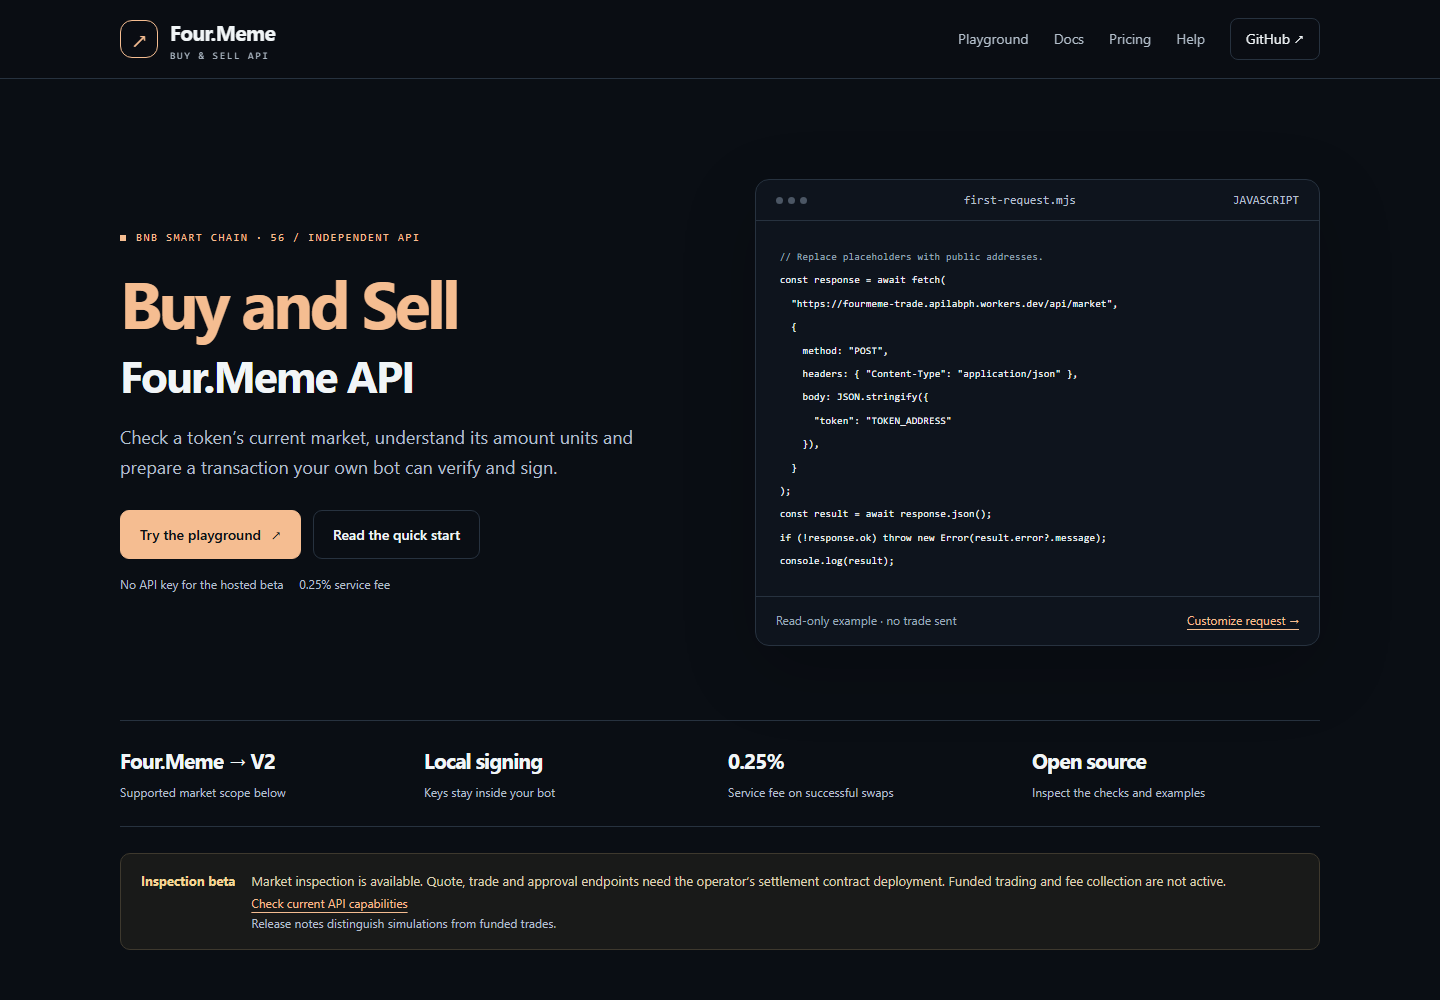
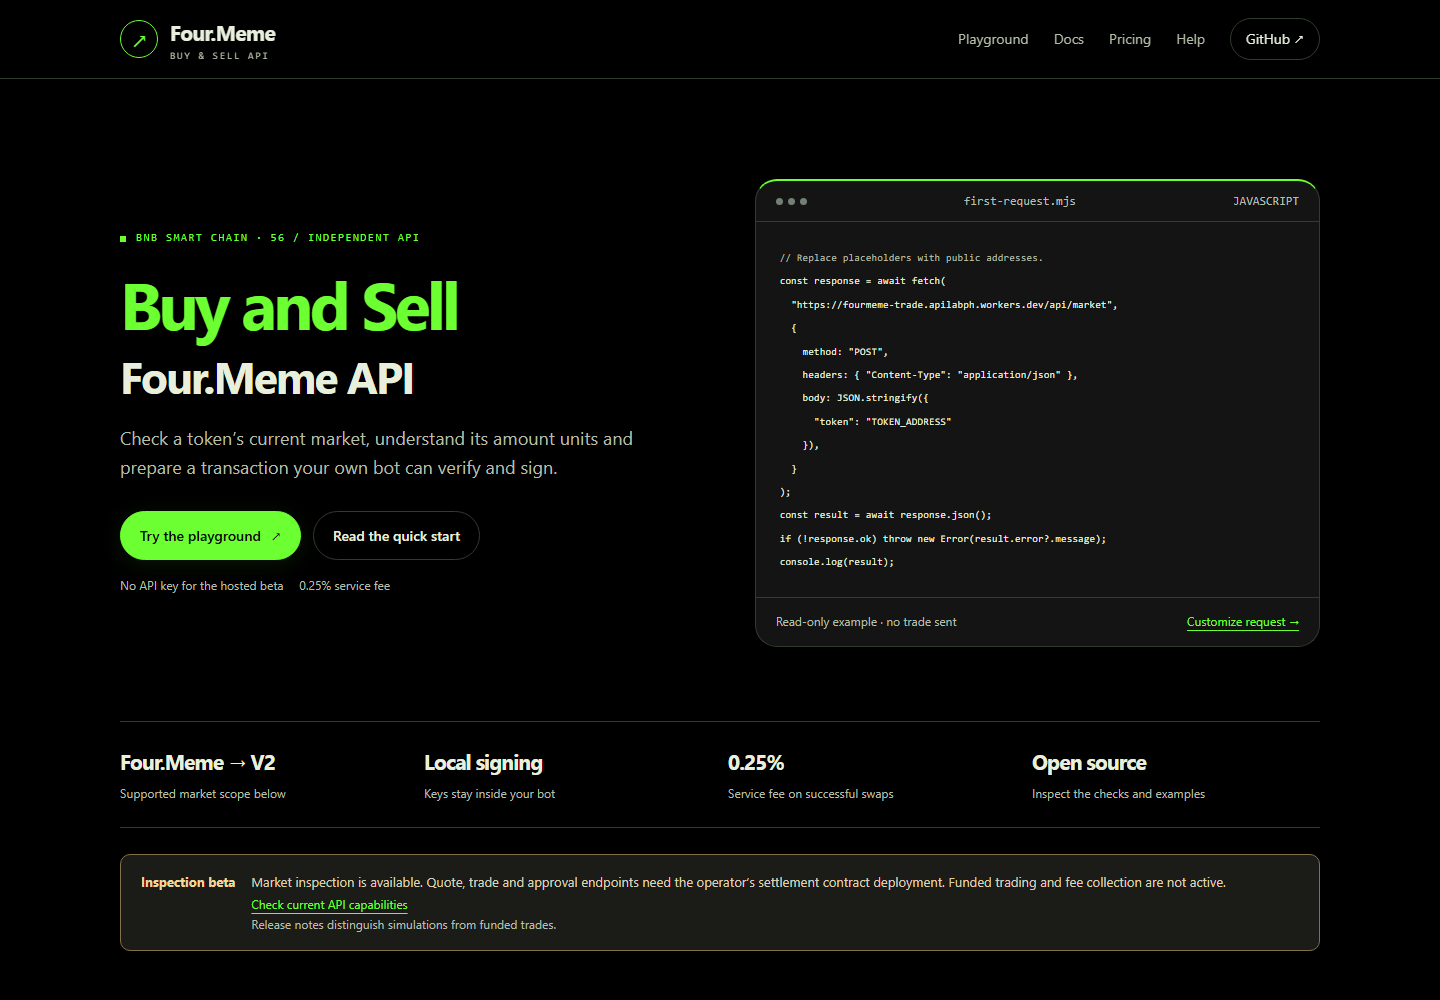
Match developer website theme to launchpad identity

diff --git a/website/style.css b/website/style.css
@@ -1,13 +1,28 @@
-:root {
+:root {
   color-scheme: dark;
-  --bg: #0a0e14;
-  --panel: #101720;
-  --line: #27323f;
-  --text: #f1f5f7;
-  --muted: #b3bfcb;
-  --accent: #aab8ff;
-  --accent-ink: #0a1014;
-  --radius: 18px;
+  --bg: #000000;
+  --panel: #141414;
+  --surface: #0d100d;
+  --line: #303c2e;
+  --text: #e8efdd;
+  --muted: #b4bea9;
+  --accent: #6cff32;
+  --secondary: #b2ff92;
+  --action: #6cff32;
+  --accent-ink: #071005;
+  --topbar: #000000f5;
+  --control-border: #72816b;
+  --comment: #b4bea9;
+  --tab-bg: #ffffff0d;
+  --window-dot: #738075;
+  --notice-bg: #1b1b18;
+  --notice-text: #dbcfb5;
+  --notice-title: #f3d597;
+  --notice-border: #827049;
+  --error: #ffb8ac;
+  --success: #b5e9d2;
+  --radius: 22px;
+  --button-radius: 999px;
   font-family:
     Inter,
     ui-sans-serif,
@@ -69,8 +84,8 @@ button:disabled {
   position: absolute;
   left: 16px;
   top: -80px;
-  background: var(--accent);
-  color: #000;
+  background: var(--action);
+  color: var(--accent-ink);
   padding: 10px;
   z-index: 10;
 }
@@ -79,7 +94,7 @@ button:disabled {
 }
 .topbar {
   border-bottom: 1px solid var(--line);
-  background: #0a0e14f5;
+  background: var(--topbar);
   position: sticky;
   top: 0;
   z-index: 5;
@@ -201,7 +216,7 @@ button:disabled {
   gap: 10px;
   text-decoration: none;
   border: 1px solid var(--line);
-  border-radius: 9px;
+  border-radius: var(--button-radius);
   padding: 12px 19px;
   color: var(--text);
   background: transparent;
@@ -210,9 +225,9 @@ button:disabled {
   min-height: 46px;
 }
 .button.primary {
-  background: var(--accent);
+  background: var(--action);
   color: var(--accent-ink);
-  border-color: var(--accent);
+  border-color: var(--action);
 }
 .button:hover {
   filter: brightness(1.12);
@@ -229,9 +244,9 @@ button:disabled {
 .editor {
   border: 1px solid var(--line);
   border-radius: 14px;
-  background: #0e141d;
+  background: var(--panel);
   overflow: hidden;
-  box-shadow: 0 24px 75px #0003;
+  box-shadow: 0 18px 55px #0003;
   min-width: 0;
 }
 .editor-top {
@@ -255,7 +270,7 @@ button:disabled {
   width: 7px;
   height: 7px;
   border-radius: 50%;
-  background: #4b5664;
+  background: var(--window-dot);
 }
 .editor pre {
   padding: 24px;
@@ -264,7 +279,7 @@ button:disabled {
   line-height: 1.95;
 }
 .comment {
-  color: #9aa9ba;
+  color: var(--comment);
 }
 .syntax {
   color: var(--accent);
@@ -317,15 +332,15 @@ code {
   gap: 16px;
   align-items: flex-start;
   font-size: 13px;
-  color: #dbcfb5;
-  background: #191a19;
-  border: 1px solid #3e392e;
+  color: var(--notice-text);
+  background: var(--notice-bg);
+  border: 1px solid var(--notice-border);
   border-radius: 10px;
   padding: 16px 20px;
 }
 .release b {
   white-space: nowrap;
-  color: #f3d597;
+  color: var(--notice-title);
 }
 .release p {
   margin: 0;
@@ -406,13 +421,17 @@ h3 {
 .field select {
   width: 100%;
   margin-top: 7px;
-  border: 1px solid #435262;
+  border: 1px solid var(--control-border);
   border-radius: 7px;
-  background: #0a1018;
+  background: var(--surface);
   color: var(--text);
   padding: 10px 12px;
   min-height: 44px;
   font-size: 13px;
+}
+.field input::placeholder {
+  color: var(--muted);
+  opacity: 1;
 }
 .field small {
   display: block;
@@ -449,7 +468,7 @@ h3 {
 }
 .tabs button[aria-pressed="true"] {
   color: var(--accent);
-  background: #ffffff09;
+  background: var(--tab-bg);
 }
 .code-area {
   padding: 24px;
@@ -482,7 +501,7 @@ h3 {
 .output pre {
   max-height: 320px;
   overflow: auto;
-  background: #0a1018;
+  background: var(--surface);
   padding: 14px;
   border-radius: 8px;
 }
@@ -492,17 +511,17 @@ h3 {
   margin: 10px 0;
 }
 .feedback.error {
-  color: #ffb8ac;
+  color: var(--error);
 }
 .feedback.success {
-  color: #b5e9d2;
+  color: var(--success);
 }
 .hint {
   font-size: 12px;
   line-height: 1.6;
   color: var(--muted);
   padding: 12px 14px;
-  background: #0a1018;
+  background: var(--surface);
   border-left: 2px solid var(--accent);
   border-radius: 0 6px 6px 0;
 }
@@ -590,10 +609,10 @@ h3 {
   font:
     10px ui-monospace,
     monospace;
-  border: 1px solid #545346;
+  border: 1px solid var(--notice-border);
   border-radius: 4px;
   padding: 3px 6px;
-  color: #ead296;
+  color: var(--notice-title);
   margin-left: 6px;
   white-space: nowrap;
 }
@@ -702,7 +721,7 @@ footer {
   display: none !important;
 }
 .noscript {
-  border: 1px solid #d0a75a;
+  border: 1px solid var(--notice-border);
   padding: 16px;
 }
 .key-points {
@@ -914,6 +933,15 @@ footer {
   }
 }
 
-:root {
-  --accent: #f5bd91;
+/* Visual reference: https://four.meme/en. Independent APILabPH integration. */
+.editor {
+  border-radius: 22px;
+  border-top: 2px solid var(--accent);
+}
+.mark,
+.navlinks .gh {
+  border-radius: 999px;
+}
+.button.primary {
+  box-shadow: 0 4px 22px #6cff3218;
 }

diff --git a/website/config.js b/website/config.js
@@ -7,10 +7,10 @@ export const config = {
   native: "BNB",
   evm: true,
   four: true,
-  accent: "#f5bd91",
+  accent: "#6cff32",
   port: 8814,
   fee: "0x4629EE1f5d2A87D7b8Ed9982DA8ad6A5bd3F01F0",
-  hero: "Four.Meme trades.<br>Less guesswork.<br><span>More context.</span>",
+  hero: "Buy and Sell Four.Meme API",
   lead: "Check a token’s current market, understand its amount units and prepare a transaction your own bot can verify and sign.",
   status:
     "Market inspection is available. Quote, trade and approval endpoints need the operator’s settlement contract deployment. Funded trading and fee collection are not active.",

diff --git a/website/index.html b/website/index.html
@@ -8,7 +8,7 @@
       name="description"
       content="Check a token’s current market, understand its amount units and prepare a transaction your own bot can verify and sign. Guided examples, supported markets and transparent 0.25% fees."
     />
-    <meta name="theme-color" content="#0a0e14" />
+    <meta name="theme-color" content="#000000" />
     <link rel="canonical" href="https://fourmeme-trade.apilabph.workers.dev/" />
     <meta property="og:title" content="Four.Meme BNB Buy and Sell API" />
     <meta

diff --git a/website/README.md b/website/README.md
@@ -28,11 +28,19 @@ The playground uses a small local proxy because the production Solana APIs do no
 
 The browser never connects to a wallet. The trade option generates build code; it does not execute a build or trade. Current status and coverage text are explicit editorial content in website/index.html and website/config.js. Update them only after verifying the corresponding release.
 
+## Visual theme
+
+Bright green on black, softly rounded panels and pill-shaped actions, following the official Four.Meme interface. Reference: [official Four.Meme website](https://four.meme/en), inspected in Edge on October 13, 2026. The palette is a design reference, not an affiliation claim. APILabPH keeps its own arrow mark, copy, examples and independent-integration identity.
+
+Theme variables in `website/style.css` cover the page, navigation, controls, code panels, notices and feedback. The browser theme color, favicon and config accent match. Light text and colored links remain readable on the dark surfaces. System fonts keep the preview self-contained without external font requests.
+
 ## Checks and evidence
 
 Run `npm run site:check` for request-generation, public-address/amount validation, string escaping, read-only proxy, origin restrictions and credential-field rejection tests. These seven cases also run under `npm test`.
 
 All five local sites were checked in installed Microsoft Edge via Playwright at 1440×1000 and 390×844. Code tabs, operation changes, exact sell amounts, disabled browser trade submission, success/error guidance and FAQ interaction passed with no JavaScript errors or horizontal overflow. UI success/error cases use mocked responses; see docs/evidence/website-local-browser.json. Screenshots are in docs/evidence/website-desktop.png and website-mobile.png.
+
+The launchpad theme revision was also checked at widths 320, 390, 760, 768, 1024 and 1440 pixels. All kept the headline visible without horizontal overflow. Sampled text contrast was at least 8.94:1; the checked input border was 4.62:1 and placeholder text was 9.92:1. See docs/evidence/website-theme-review.json. These are targeted layout and contrast checks, not a complete accessibility audit.
 
 Actual read-only calls through the local proxy are recorded separately in website-local-readback.json. These do not prove a funded trade or reliable production capacity. No private keys were used.
 
